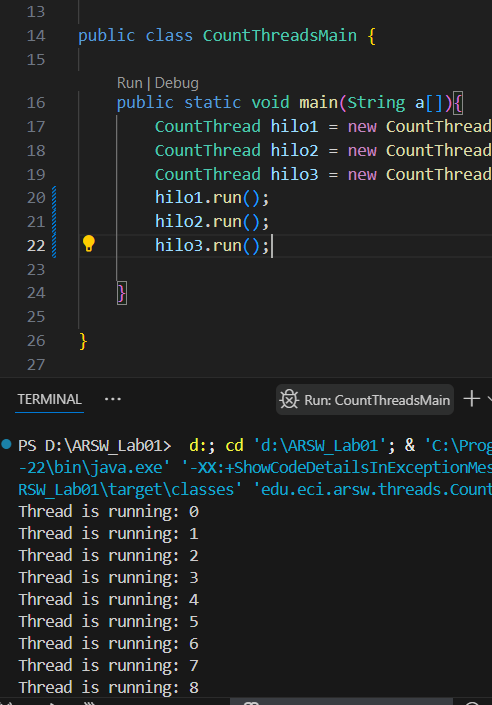
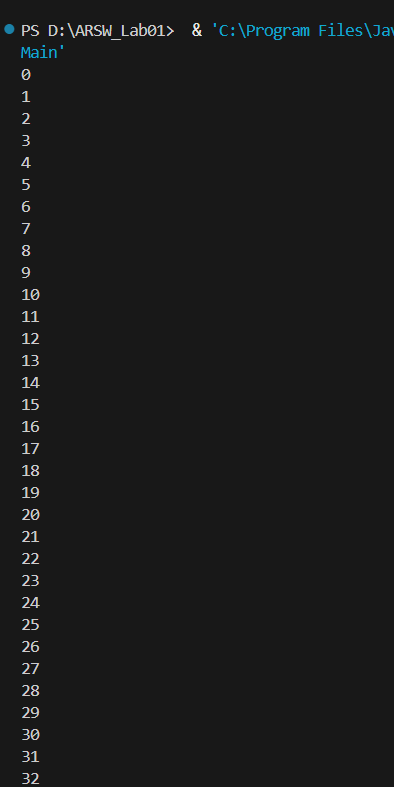
update

diff --git a/src/main/java/edu/eci/arsw/threads/CountThreadsMain.java b/src/main/java/edu/eci/arsw/threads/CountThreadsMain.java
@@ -10,17 +10,16 @@ package edu.eci.arsw.threads;
  * @author hcadavid
  */
 
-
 public class CountThreadsMain {
-    
-    public static void main(String a[]){
-        CountThread hilo1 = new CountThread(0,99);
-        CountThread hilo2 = new CountThread(99,199);
-        CountThread hilo3 = new CountThread(200,299);
-        hilo1.start();
-        hilo2.start();
-        hilo3.start();
+
+    public static void main(String a[]) {
+        CountThread hilo1 = new CountThread(0, 99);
+        CountThread hilo2 = new CountThread(99, 199);
+        CountThread hilo3 = new CountThread(200, 299);
+        hilo1.run();
+        hilo2.run();
+        hilo3.run();
 
     }
-    
+
 }
